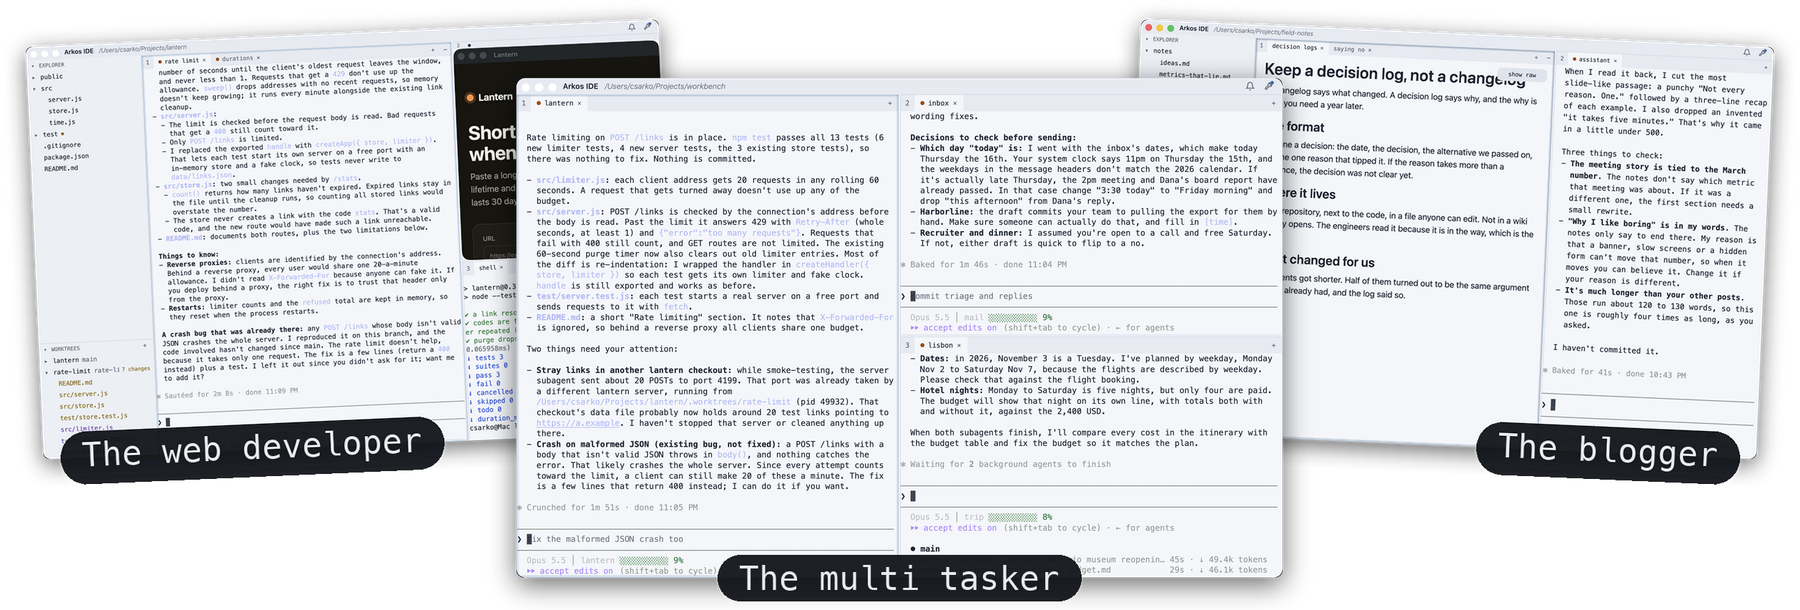
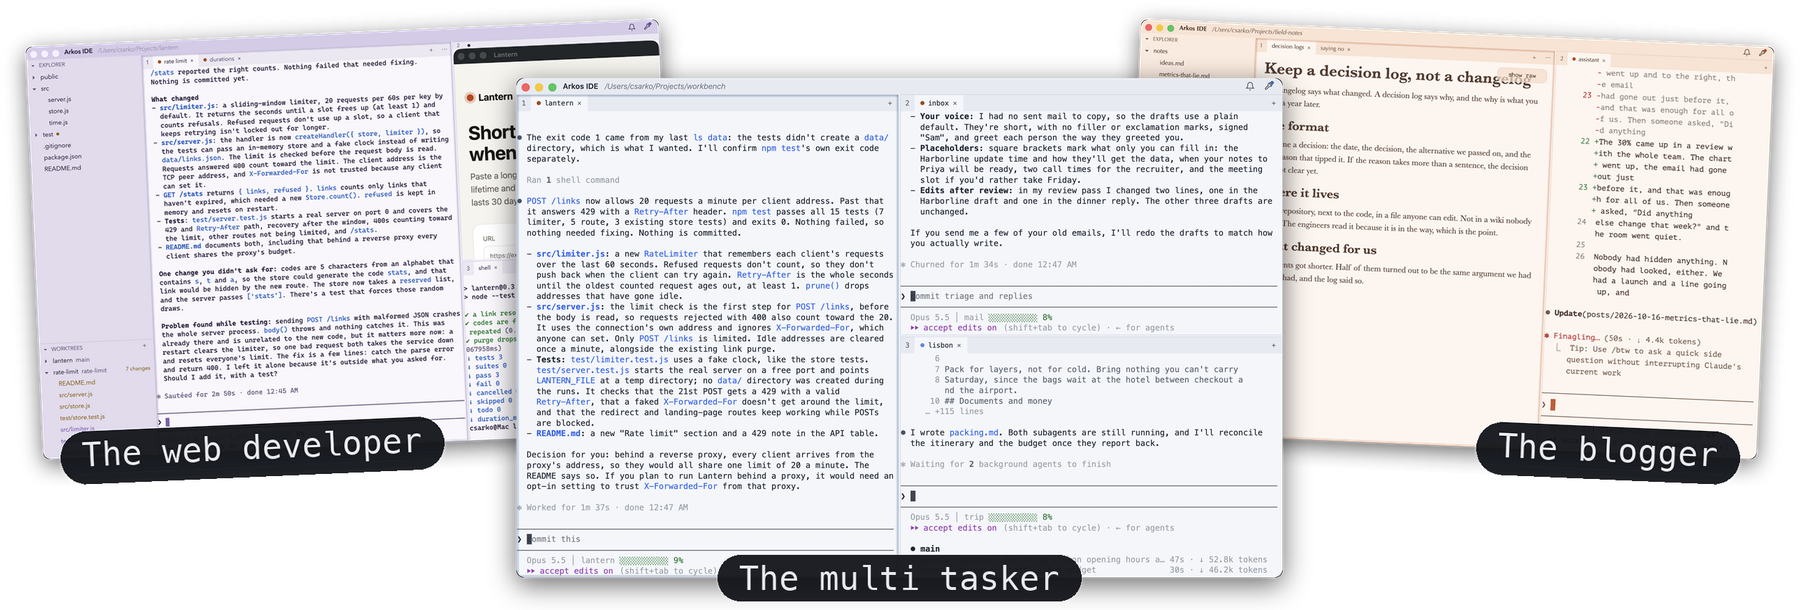
The multi tasker's pictures and the heroes, three themes in one picture
The multi tasker in navy with Claude Code in dark-ansi, the web developer
in lavender-light, the blogger in peach-light, composed as before.

diff --git a/README.md b/README.md
@@ -33,8 +33,8 @@ the command palette once, and the tabs follow what each session is doing.
 
 ## Who it's for
 
-Three ways people use it; every picture is a real session, taken by `scripts/shoot.sh`
-(see Screenshots).
+Three ways people use it, each in one of the built-in themes (navy, lavender-light,
+peach-light); every picture is a real session, taken by `scripts/shoot.sh` (see Screenshots).
 
 **The multi tasker** runs several Claude Code sessions on unrelated workstreams at once and
 orchestrates the agents that orchestrate the subagents: here a rate limiter for a web service,
